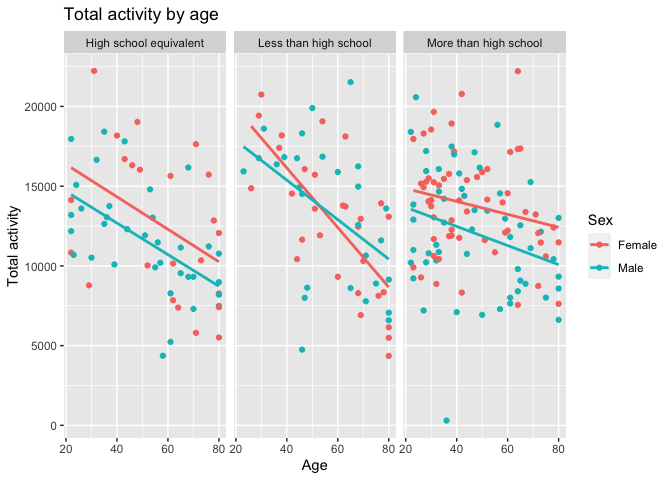
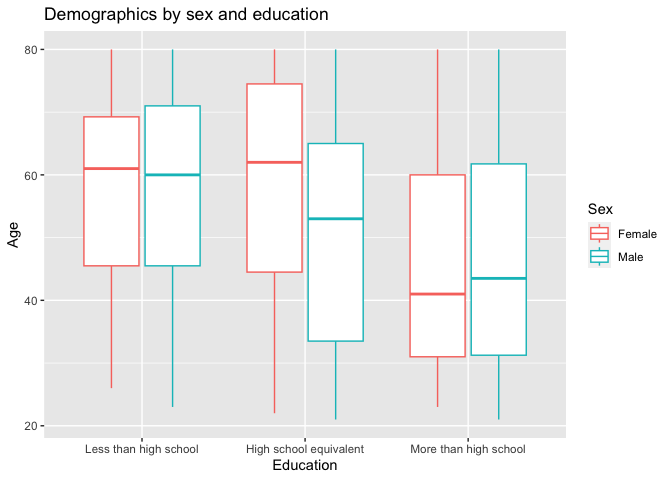
updating plots for Q3

diff --git a/p8105_hw3_sw3879.md b/p8105_hw3_sw3879.md
@@ -227,10 +227,9 @@ Load the demographics dataset, recode variable and remove \<21 years old
 ``` r
 demo = read_csv("data/nhanes_covar.csv", skip = 4) |> 
   janitor::clean_names() |> 
-  filter(age > 21) |> 
+  filter(age >= 21) |> 
   mutate(sex = case_match(
-    sex, 1 ~ "Male", 2 ~ "Female"
-  ),
+    sex, 1 ~ "Male", 2 ~ "Female"),
   sex = as.factor(sex)) |> 
   mutate(education = case_match(
     education, 
@@ -238,7 +237,11 @@ demo = read_csv("data/nhanes_covar.csv", skip = 4) |>
     2 ~ "High school equivalent", 
     3 ~ "More than high school"
   ),
-  education = as.factor(education))
+  education = factor(education,
+                     levels = c("Less than high school", 
+                                "High school equivalent",
+                                "More than high school"))) |> 
+  na.omit()
 ```
 
     ## Rows: 250 Columns: 5
@@ -292,9 +295,20 @@ demo |> group_by(education) |> count(sex) |>
 
 | education              | female_number | male_number |
 |:-----------------------|--------------:|------------:|
+| Less than high school  |            28 |          27 |
 | High school equivalent |            23 |          35 |
-| Less than high school  |            29 |          28 |
-| More than high school  |            59 |          54 |
+| More than high school  |            59 |          56 |
+
+``` r
+demo |> group_by(education, sex, age) |> 
+  ggplot(aes(x = education, y = age, color = sex)) + geom_boxplot() + 
+  labs(title = "Demographics by sex and education",
+       x = "Education",
+       y = "Age",
+       color = "Sex")
+```
+
+![](p8105_hw3_sw3879_files/figure-gfm/unnamed-chunk-18-1.png)<!-- -->
 
 TO DO: comment on the table
 
@@ -307,9 +321,9 @@ smooth to illustrate differences.
 ``` r
 merged_df |> group_by(seqn) |> 
   summarize(aggre_data = sum(as.numeric(accel_data))) |> 
-  left_join(demo) |> 
+  right_join(demo) |> 
   ggplot(aes(x = age, y = aggre_data, color = sex)) + 
-  geom_point() + geom_smooth(method = "lm", se = FALSE) +
+  geom_point() + geom_smooth(se = FALSE) +
   labs(title = "Total activity by age",
        x = "Age",
        y = "Total activity",
@@ -318,9 +332,9 @@ merged_df |> group_by(seqn) |>
 ```
 
     ## Joining with `by = join_by(seqn)`
-    ## `geom_smooth()` using formula = 'y ~ x'
+    ## `geom_smooth()` using method = 'loess' and formula = 'y ~ x'
 
-![](p8105_hw3_sw3879_files/figure-gfm/unnamed-chunk-18-1.png)<!-- -->
+![](p8105_hw3_sw3879_files/figure-gfm/unnamed-chunk-19-1.png)<!-- -->
 
 TO DO: add comment
 
@@ -329,19 +343,19 @@ each education level and use color to indicate sex.
 
 ``` r
 merged_df |> 
-  mutate(time_hour = floor(as.numeric(time_min)/60)) |> 
-  group_by(time_hour) |> 
-  summarize(data_per_hour = sum(accel_data)) |> 
-  cross_join(demo) |> 
-  ggplot(aes(x = time_hour, y = data_per_hour, color = sex)) +
-  geom_point() + geom_smooth(method = "lm", se = FALSE) +
+  group_by(time_min, education, sex) |> 
+  summarize(data_per_min = mean(as.numeric(accel_data))) |> 
+  ggplot(aes(x = time_min, y = data_per_min, color = sex)) +
+  geom_point() + geom_smooth(se = FALSE) +
   labs(title = "Total activity by hours in a day",
-       x = "Time in Hour",
-       y = "Total activity per hour",
+       x = "Time in min",
+       y = "Total activity per min",
        color = "Sex") +
   facet_wrap(. ~ education)
 ```
 
-    ## `geom_smooth()` using formula = 'y ~ x'
+    ## `summarise()` has grouped output by 'time_min', 'education'. You can override
+    ## using the `.groups` argument.
+    ## `geom_smooth()` using method = 'loess' and formula = 'y ~ x'
 
-![](p8105_hw3_sw3879_files/figure-gfm/unnamed-chunk-19-1.png)<!-- -->
+![](p8105_hw3_sw3879_files/figure-gfm/unnamed-chunk-20-1.png)<!-- -->
